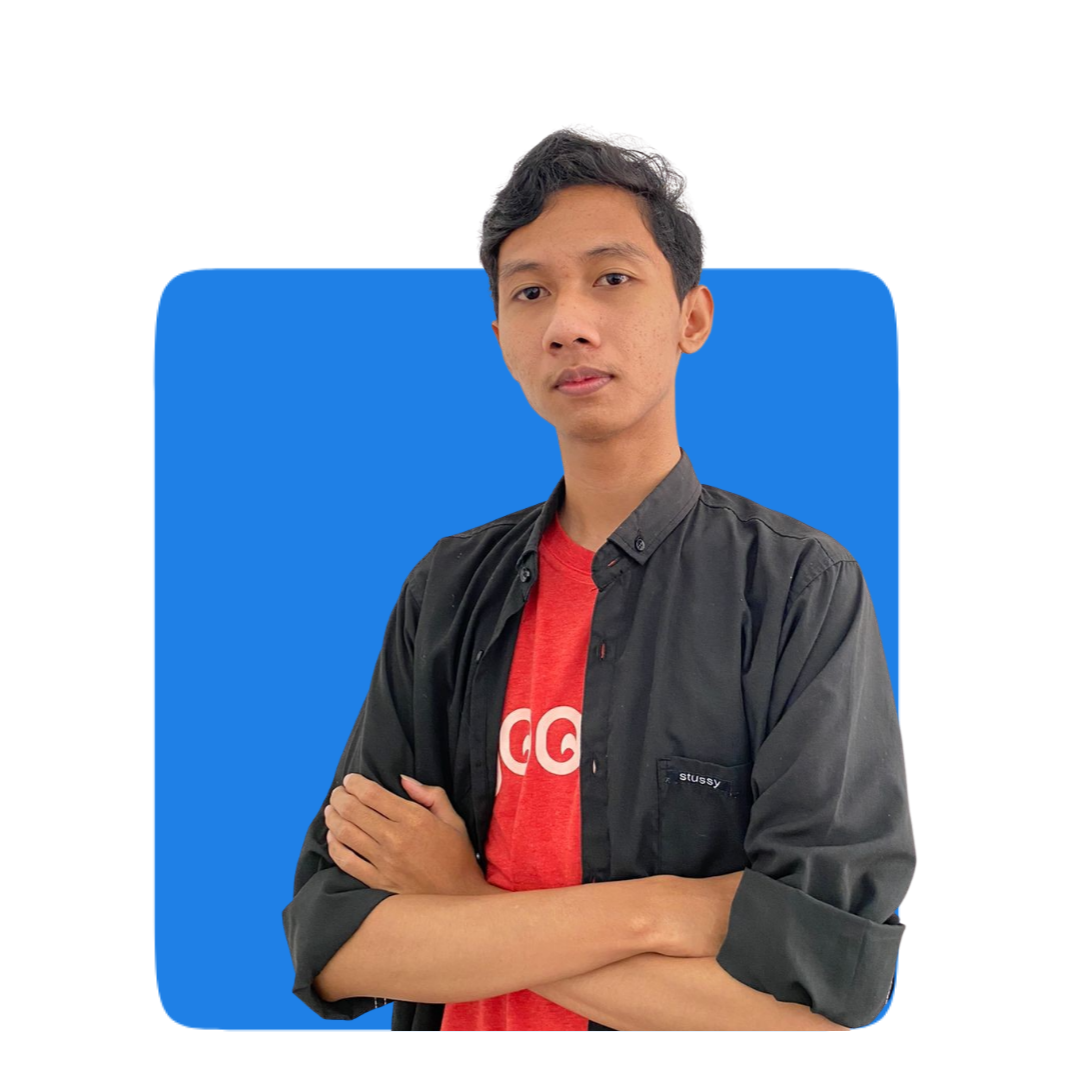
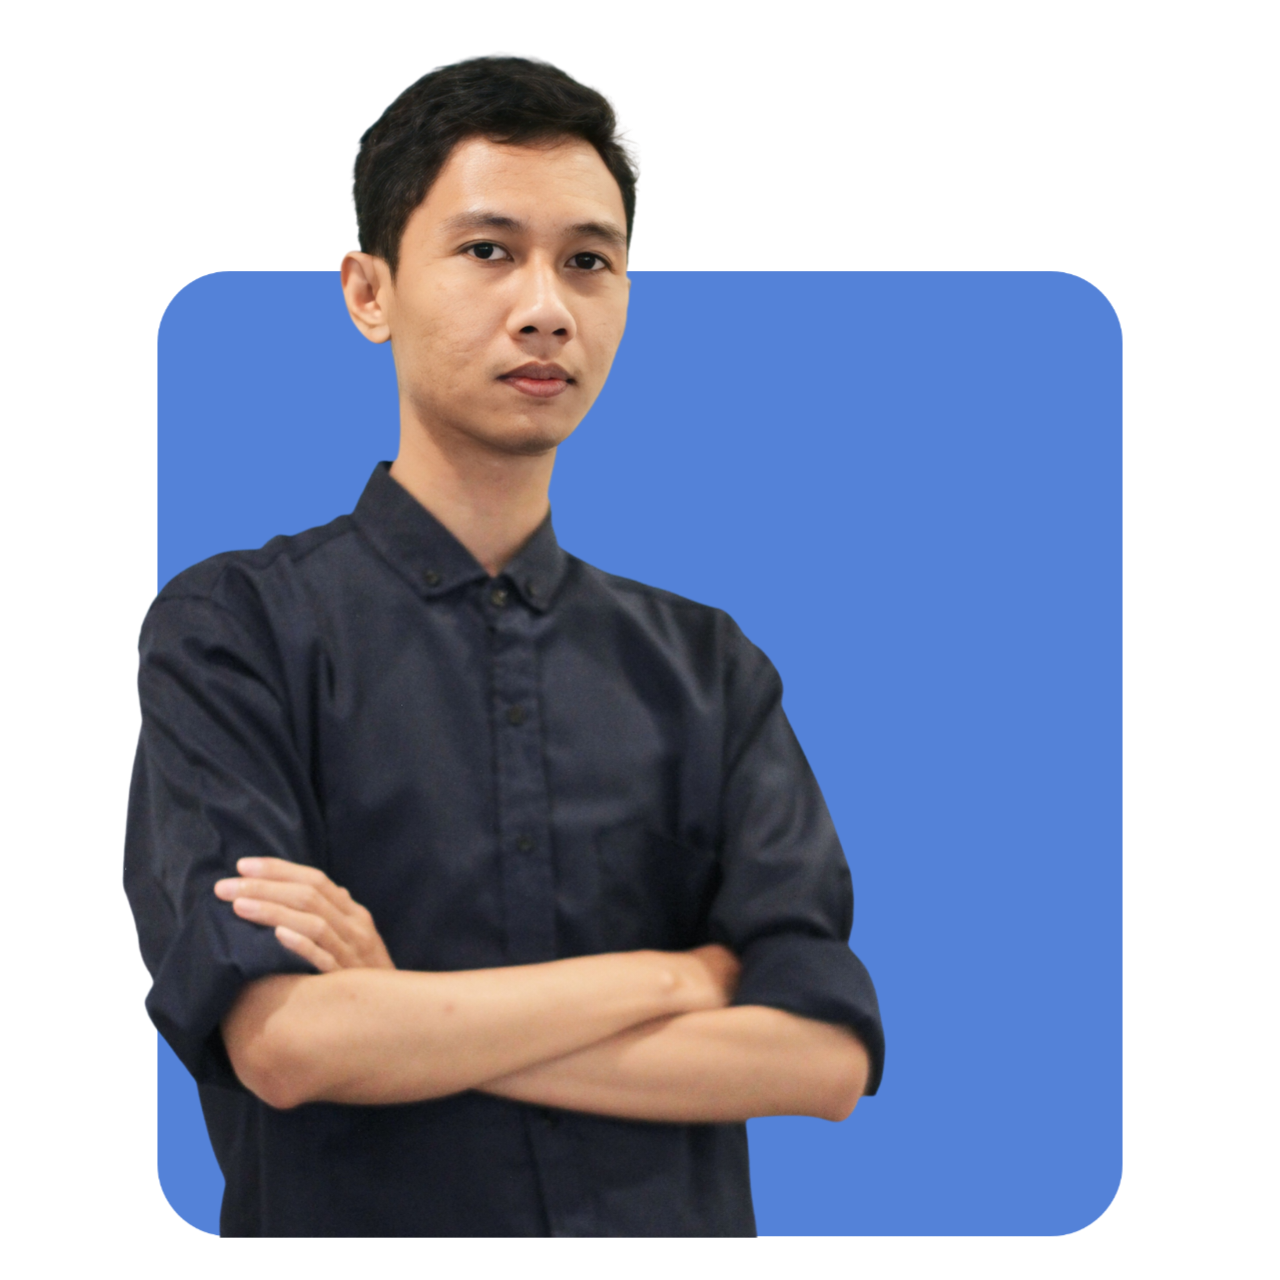
update photo and some typing

diff --git a/index.html b/index.html
@@ -98,6 +98,8 @@
                             <img class="mb-3" src="images/details-icon-javascript.png" alt="">
                             <img class="mb-3" src="images/jquery-icon.png" alt="">
                             <img class="mb-3" src="images/react-icon.png" alt="">
+                            <img class="mb-3" src="images/next-icon.png" alt="">
+                            <img class="mb-3" src="images/redux-icon.png" alt="">
                             <img class="mb-3" src="images/ts-icon.png" alt="">
                             <img class="mb-3" src="images/php-icon.png" alt="">
                             <img class="mb-3" src="images/details-icon-laravel.png" alt="">
@@ -117,11 +119,11 @@
                         <h6 class="mb-3">Frontend</h6>
                         <ul>
                             <li>Build a website using HTML+CSS+Javascript.</li>
-                            <li>Able to slicing well from design to website.</li>
-                            <li>Understand to use Javascript libraries like Jquery and React.</li>
-                            <li>Familiar with using Typescript in React</li>
+                            <li>Slicing well from design to website.</li>
+                            <li>Using Javascript libraries or frameword like Jquery, React and Next.</li>
+                            <li>Familiar with using Typescript in React or Next</li>
                             <li>Familiar with state management like Redux</li>
-                            <li>Understand to use CSS Framework like Boostrap and Tailwind.</li>
+                            <li>Using CSS/UI Framework like Boostrap, Tailwind and Material UI.</li>
                             <li>Familiar with API integration, or third party application.</li>
                         </ul>
                     
@@ -130,11 +132,11 @@
                     
                         <h6 class="mb-3">Backend</h6>
                         <ul>
-                            <li>Build a Website or Backend using Laravel</li>
+                            <li>Build a Website or API using Laravel</li>
                             <li>Familiar with Laravel Feature like Eloquent, Event, Queue, etc.</li>
                             <li>Familiar with Laravel Ecosystem like Livewire, Jetstream, Sanctum.</li>
                             <li>Familiar with OOP dan MVC concept.</li>
-                            <li>Able to use laravel design patterns like repository and service.</li>
+                            <li>Able to use design patterns like repository and service.</li>
                             <li>Familiar to build a Restfull API.</li>
                             <li>Familiar with MySQL and PostgreSQL database.</li>
                         </ul>
@@ -150,8 +152,8 @@
             <div class="row justify-content-center">
                 <div class="col-lg-8 col-12">
                     <div class="page-header">
-                        <h2 class="">My <span class="color-main">Project</span></h2>
-                        <p>Here is the personal project that I have worked.</p>
+                        <h2 class="">My <span class="color-main">Personal Project</span></h2>
+                        <p>These are some of my personal projects I've worked.</p>
                     </div>
                 </div> 
             </div> 
@@ -324,8 +326,8 @@
             <div class="row justify-content-center">
                 <div class="col-lg-8 col-12">
                     <div class="page-header">
-                        <h2>My <span class="color-main">Contact</span></h2>
-                        <p>It will be very nice if we work together.</p>
+                        <h2>My <span class="color-main">Personal Contact</span></h2>
+                        <p>It will be very nice if we can work together.</p>
                     </div>
                 </div>
             </div>
